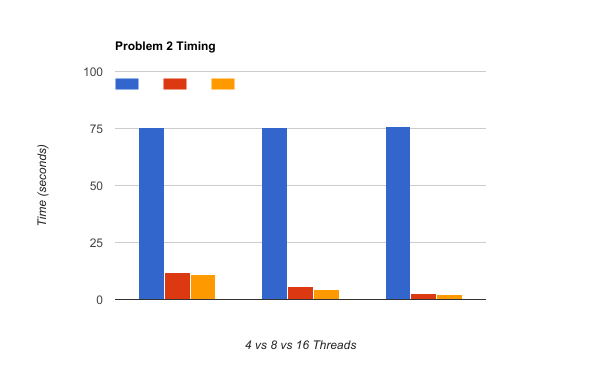
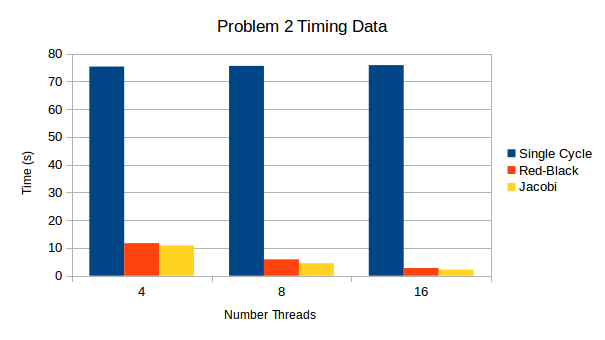
graphs added to midterm report

diff --git a/midterm/Report.MD b/midterm/Report.MD
@@ -7,16 +7,38 @@
 ![Timing Graphs]
  (https://github.com/om23/ecec413/blob/master/midterm/solver.png)
 
+![Timing Graphs]
+ (https://github.com/om23/ecec413/blob/master/midterm/chol.png)
+
 
 ## Code
 
 
 ### Problem 1
+Note: Compile using  gcc -fopenmp -o chol chol.c chol_gold.c -lpthread -lm -std=gnu99
 
+
+#### Timing data
+| Matrix Size | Number of Threads  | Serial Time (s) | OpenMP (s) | PThreads (s) | Serial vs OpenMP | Serial vs PThreads |
+| ------------------|-------------|-----------------|-------------------|--------------|------------|------------|
+| 512 | 2| 0.10 | 0.15 | 0.10 | 0.67 | 1 |
+| 512 | 4| 0.09 | 0.10 | 0.09 | 0.9 | 1|
+| 512 | 8 | 0.09 | 0.13 | 0.08 | 0.69 | 1.125| 
+| 512 | 16 | 0.10 | 0.11 | 0.09 | 0.91 | 1.11|
+| 1024 | 2 | 0.72 | 1.09 | 0.72 | 0.66 | 1 |
+| 1024 | 4 | 0.69 | 0.70 | 0.50 | 0.98 | 1.38 |
+| 1024 | 8 | 0.71 | 1.09 | 0.47 | 1.06 | 1.37 |
+| 1024 | 16	| 0.70 | 0.66 | 0.51 | 1.06 | 1.37 |
+| 2048 | 2 | 5.67 | 8.58 | 5.76 | 0.66 | 0.98 |
+| 2048 | 4 | 5.59 | 5.39 | 4.02 | 1.04 | 1.39 |
+| 2048 | 8 | 5.59 | 6.27 | 3.78  | 0.89 | 1.47 |
+| 2048 | 16 | 5.56 | 4.22 | 3.61 | 1.31 | 1.54 |
+ 
 
 ### Problem 2
+Note: Compile using  gcc -o solver solver.c solver_gold.c -fopenmp -std=c99 -lm -lpthread
 
-#### Timing data from Pthreads without barriers (compiled using C99)
+#### Timing data
 | Matrix Size | Number of Threads  | Serial Time (s) | Red-Black (s) | Jacobi (s) | Serial vs Red-Black | Serial vs Jacobi |
 | ------------------|-------------|-----------------|-------------------|--------------|------------|------------|
 | 8192 | 4	| 75.36 | 11.73 | 10.89 | 6.42 | 6.92 |
